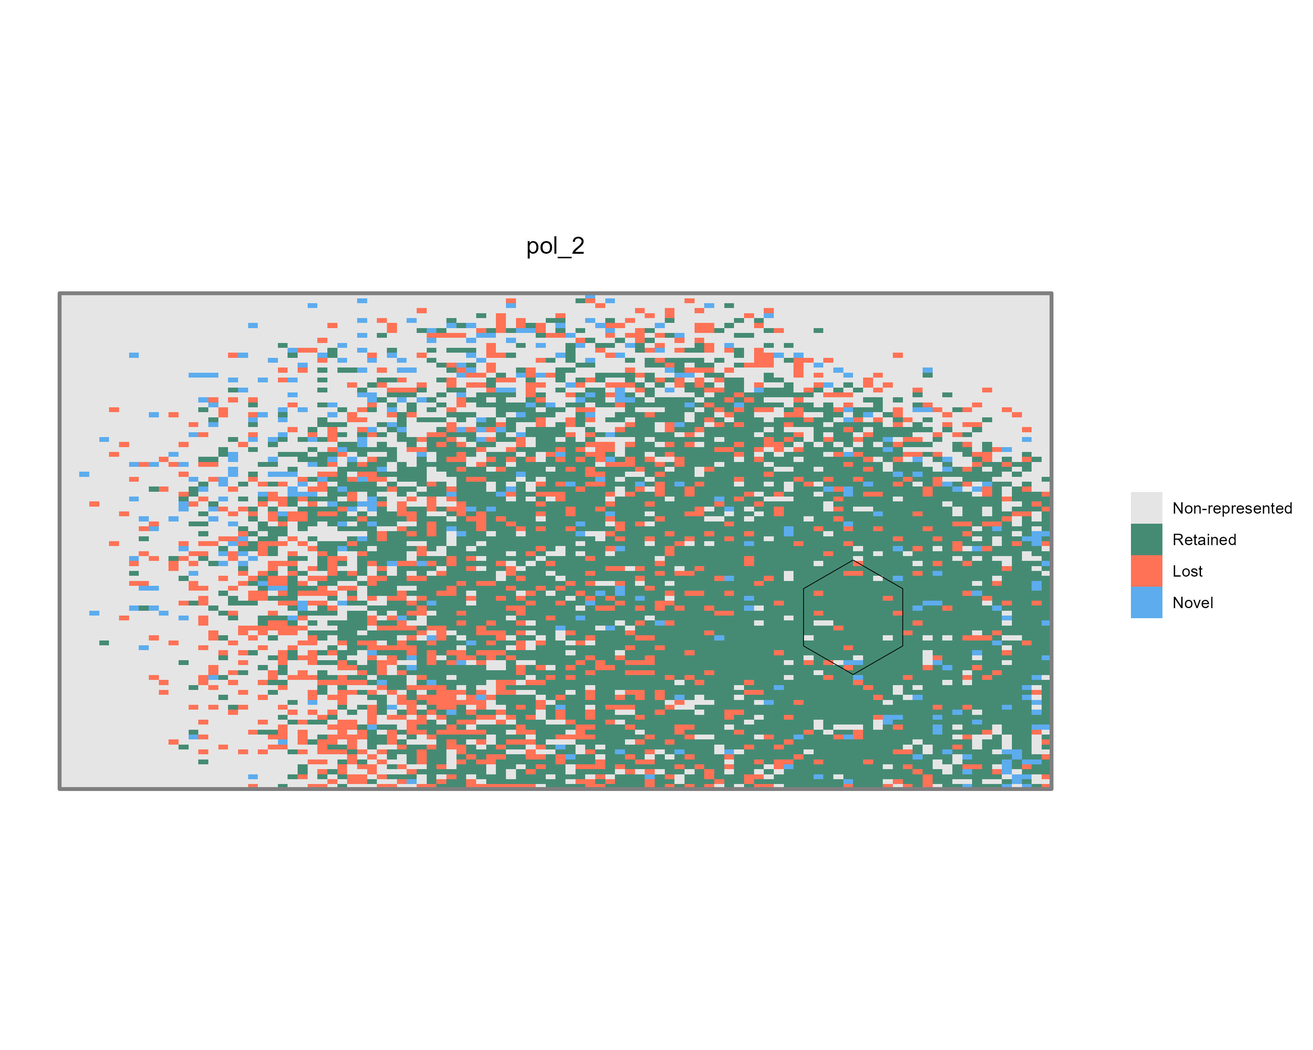
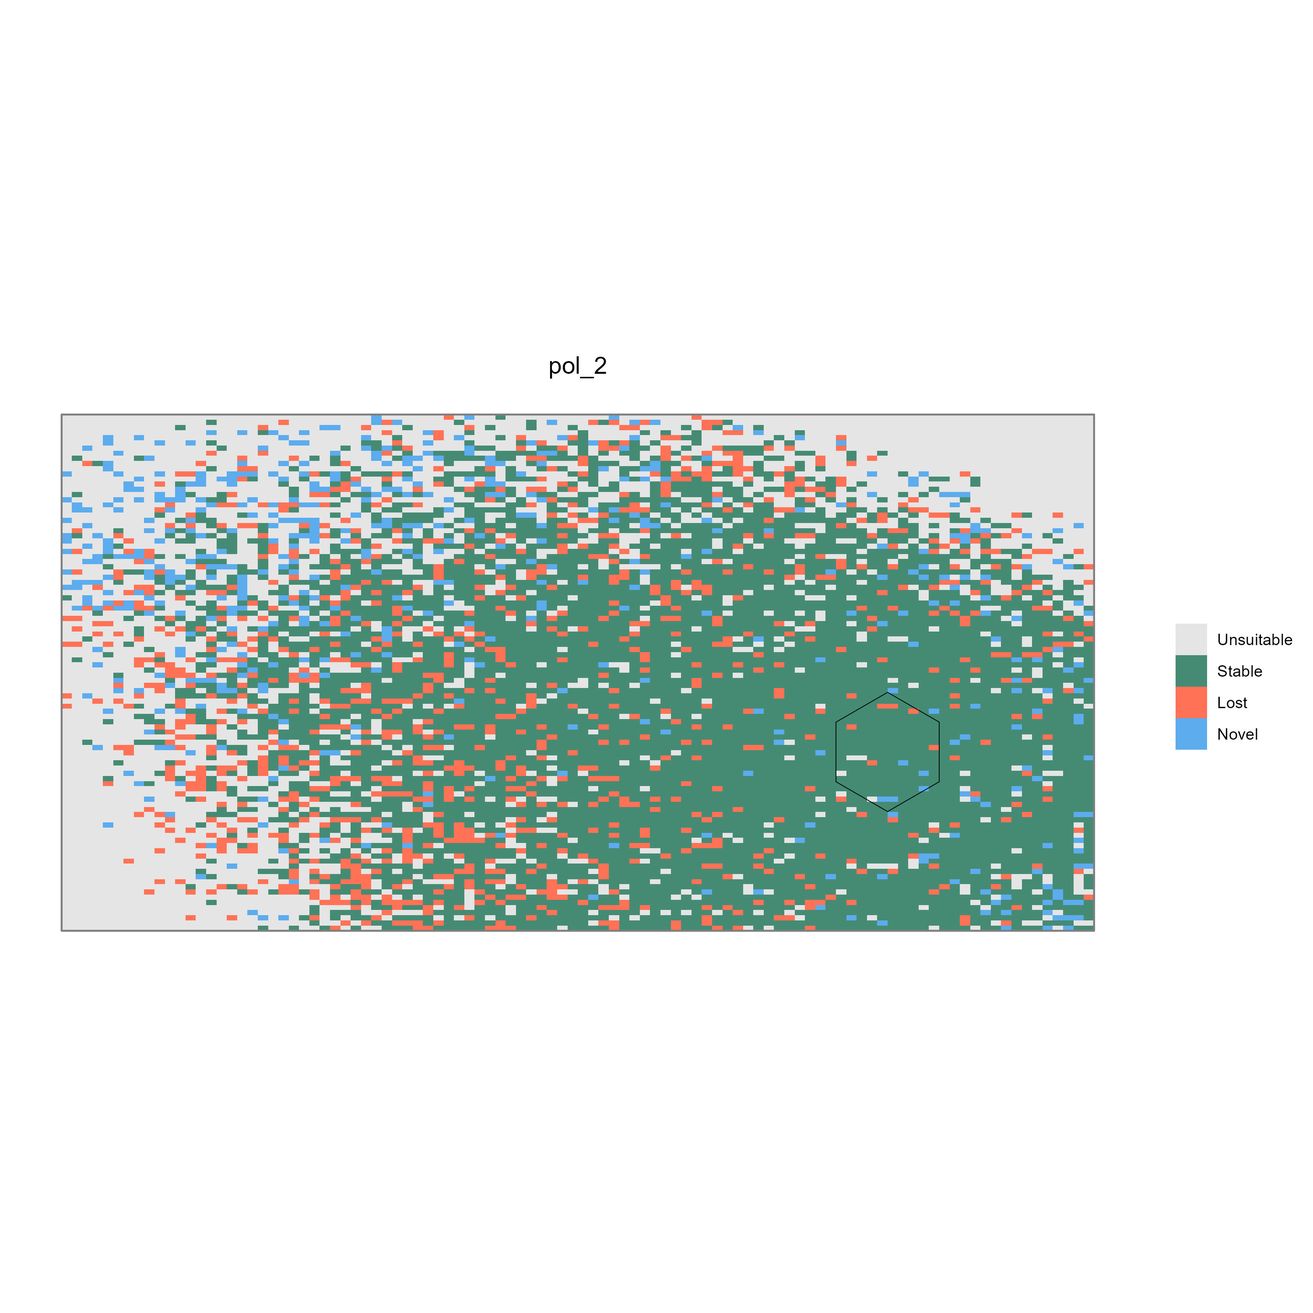
version 1.0

Changed region(s): [[0.031, 0.2188, 0.992, 0.7812]]

diff --git a/README.md b/README.md
@@ -9,18 +9,18 @@
 
 ## Overview
 
-The `ClimaRep` package offers tools to analyze the climate representativeness of defined areas, assessing current conditions and evaluating how they are projected to change under future climate change scenarios. 
-Using spatial data, including climate raster layers, the input area polygons, and a polygon of the study area, the package quantifies this representativeness and analyzes its transformation.
+The `ClimaRep` package offers tools to analyze the climate representativeness of defined areas, assessing current conditions and evaluating how they are projected to change under future scenarios. 
+Using spatial data, including climate raster layers, the input reference area polygons, and a polygon of the study area, the package quantifies this representativeness and analyzes its transformation.
 
 Key features include:
-* Filtering raster climate variables to reduce multicollinearity (`vif_filter`).
-* Estimating current climate representativeness (`mh_rep`).
-* Estimating changes in climate representativeness under future climate projections (`mh_rep_ch`).
-* Estimating climate representativeness overlay (`rep_overlay`).
+* Filtering raster climate variables to reduce multicollinearity (`ClimaRep::vif_filter()`).
+* Estimating current climate representativeness (`ClimaRep::mh_rep()`).
+* Estimating changes in climate representativeness under future climate projections (`ClimaRep::mh_rep_ch()`).
+* Estimating climate representativeness overlay (`ClimaRep::rep_overlay()`).
 
 ## Installation
 
-You can install the development version of ClimaRep from CRAN with:
+You can install the development version of `ClimaRep` from CRAN with:
 ```{r}
 install.packages("ClimaRep")
 ```
@@ -44,7 +44,7 @@ This package relies on other R packages, such as:
 
 These dependencies will be installed automatically when you install `ClimaRep`.
 
-## Getting Started
+## Getting started
 
 This section provides a brief example demonstrating the core workflow of the package.
 
@@ -62,13 +62,15 @@ Next, prepare the essential input data:
 
 1. **Climate variables** as an `SpatRaster` objects with consistent extent, resolution, and Coordinate Reference System (CRS).
 
-2. **Polygon** as an `sf` object containing one or more polygons, with a column identifying each distinct area (e.g., a 'name' or 'ID' column).
+2. **Polygon** as an `sf` object containing one or more polygons, with a column identifying each reference area (e.g., a 'name' or 'ID' column).
 
 3. **Study area** as a single `sf` object, representing the overall geographical region for analysis and thus the climate space being worked on.
 
 
 Here is a practical example using simulated data:
-The example simulates a pair of defined input areas and assesses their climate representativeness and transformation within a defined climate space. 
+
+The example simulates a pair of reference `polygon` and assesses their climate representativeness and change, based on Mahalanobis Distance.
+
 This involves creating a simulated climate space within which the analysis is performed.
 
 Generate simulated climate raster layers:
@@ -95,23 +97,21 @@ terra::plot(r_clim_present)
 ```
 <img src="man/figures/F_1.jpeg" alt="Climate layers" width="600">
 
-*Figure 1: Example of simulated climate raster layers (r_clim_present).*
+*Figure 1: Example of simulated climate raster layers (`r_clim_present`).*
 
 
-### 1. Filter Climate Variables
+### 1. Filter climate variables
 
-A crucial first step in processing the climate variables is often to address multicollinearity. Multicollinearity among climate variables can affect multivariate analyses.
+Multicollinearity among climate variables can affect multivariate analyses.
 
-To handle this, the `vif_filter` function can be used to iteratively remove variables with a Variance Inflation Factor (VIF) above a specified threshold (e.g., `th = 5`).
+To handle this, the `ClimaRep::vif_filter()` function can be used to iteratively remove variables with a Variance Inflation Factor (VIF) above a specified threshold (e.g., `th = 5`).
 
-The output of `vif_filter` returns a `list` object with a filtered `SpatRaster` object and a statistics summary. 
-
-The `SpatRaster` object, containing only the variables that were kept, also provides a comprehensive summary printed to the console. 
-
-The summary list including:
-- The lists of variables that were kept and those that were excluded.
-- The original Pearson's correlation matrix between all initial variables.
-- The final VIF values for the variables that were retained after the filtering process.
+The output returns a `list` object with:
+- A filtered `SpatRaster` object containing only the variables that were kept 
+- A comprehensive statistics summary `list` including:
+  - The name of variables that were kept and those that were excluded.
+  - The original Pearson's correlation matrix between all initial variables.
+  - The final VIF values for the variables that were retained.
 
 
 ```{r}
@@ -144,10 +144,10 @@ terra::plot(r_clim_present_filtered)
 ```
 <img src="man/figures/F_2.jpeg" alt="Filtered Climate layers" width="600">
 
-*Figure 2: Example of filtered climate dataset, showing remaining variables (r_clim_present_filtered) after vif_filter() function.*
+*Figure 2: Example of filtered climate dataset, showing remaining variables (`r_clim_present_filtered`) after `ClimaRep::vif_filter()`.*
 
-### 2. Estimate Climate Representativeness.
-Create example input area `polygon` (`sf`) and a `study_area` polygon (`sf`) to define the region and climate space for analysis:
+### 2. Estimate climate representativeness
+Create example reference `polygon` (`sf`) to estimate climate representativeness and a `study_area` polygon (`sf`) to set the climate space for analysis:
 ```{r}
 hex_grid <- sf::st_sf(
   sf::st_make_grid(
@@ -167,13 +167,14 @@ terra::plot(study_area_polygon, add = TRUE, col = "transparent", lwd = 3, border
 ```
 <img src="man/figures/F_3.jpeg" alt="polygon" width="600">
 
-*Figure 3: Example of input polygons (black outline) and study area (red outline) overlaid on a climate raster layer.*
+*Figure 3: Example of reference polygons (black outline) and study area (red outline) overlaid on `r_clim_present_filtered[[1]]`.*
 
-Use `mh_rep` to estimate **Climate Representativeness** for each input `polygon`. 
+Use `ClimaRep::mh_rep()` to estimate climate representativeness for each reference `polygon`. 
 
-The function calculates the Mahalanobis distance from the multivariate centroid of climate conditions within each `polygon` to all cells in the `study_area`. 
+The function calculates the Mahalanobis Distance from the multivariate centroid of climate conditions within each reference `polygon` to all cells in the `study_area`. 
 
-Cells within a certain percentile threshold (`th`) of distances found within the input `polygon` are considered representative.
+Cells within a certain percentile threshold (`th`) of distances found within the reference `polygon` are considered representative of the climate of the `polygon`.
+
 ```{r}
 mh_rep(
   polygon = polygons,
@@ -204,7 +205,7 @@ list.files(tempdir())
  [1] "Charts"             "Mh_Raw"             "Representativeness"
 ```
 
-1. The `Charts` subfolder contains the **binary representativeness** image files (`.jpeg`) for each input `polygon`.
+1. The `Charts` subfolder contains the binary representativeness image files (`.jpeg`) for each reference `polygon`.
 
 ```{r}
 list.files(file.path(tempdir(), "Charts"))
@@ -214,8 +215,9 @@ list.files(file.path(tempdir(), "Charts"))
 
 *Figure 4: Example of binary representativeness map for Pol_1 (pol_1_rep.jpeg).*
 
-2. The `Mh_raw` subfolder contains the **continuous Mahalanobis distance** rasters (`.tif`) for each input `polygon`. 
-Lower values indicate climates more similar to the polygon's centroid.
+2. The `Mh_raw` subfolder contains the continuous Mahalanobis Distance rasters (`.tif`) for each reference `polygon`. 
+
+Lower values indicate climates more similar to the reference polygon's centroid.
 
 ```{r}
 mh_rep_raw <- terra::rast(list.files(file.path(tempdir(), "Mh_Raw"),  pattern = "\\.tif$", full.names = TRUE))
@@ -224,11 +226,12 @@ terra::plot(polygons[1,], add = TRUE, color= "transparent", lwd = 3)
 ```
 <img src="man/figures/F_5.jpeg" alt="cont_rep" width="600">
 
-*Figure 5: Example of continuous Mahalanobis distance raster for Pol_1. Darker shades indicate cells with climate conditions more similar to Pol_1.*
+*Figure 5: Example of continuous Mahalanobis Distance raster for Pol_1. Darker shades indicate cells with climate conditions more similar to Pol_1.*
 
-3. The `Representativeness` subfolder contains the **binary representativeness** rasters (`.tif`) for each input `polygon`, based on the threshold (`th`) applied to the raw Mahalanobis distance.
+3. The `Representativeness` subfolder contains the binary representativeness rasters (`.tif`) for each reference `polygon`, based on the threshold (`th`) applied to the raw Mahalanobis Distance.
 
-Cells are coded `1` for `representative` and `0` for not representetive.
+Cells are coded `1` for `Representative` and `0` for `Unsuitable`.
+
 ```{r}
 mh_rep_result <- terra::rast(list.files(file.path(tempdir(), "Representativeness"),  pattern = "\\.tif$", full.names = TRUE))
 terra::plot(mh_rep_result[[1]])
@@ -240,7 +243,7 @@ terra::plot(polygons[1,], add = TRUE, color= "transparent", lwd = 3)
 *Figure 6: Example of binary representativeness raster for Pol_1, showing cells classified as representetive (value 1).*
 
 ### 3. Estimate change in climate representativeness.
-To estimate how **Representativeness Changes**, a future climate scenario is required.
+To estimate how representativeness changes, a future climate scenario is required.
 
 In this example, a simple virtual future climate conditions (`SpatRaster`) are created by adding a constant value to the `r_clim_present_filtered` data:
 
@@ -252,13 +255,13 @@ terra::plot(r_clim_future)
 ```
 <img src="man/figures/F_7.jpeg" alt="Future Climate layers" width="600">
 
-*Figure 7: Example of simulated future climate variables.*
+*Figure 7: Example of simulated future climate variables (`r_clim_future`).*
 
-Use `mh_rep_ch` to compare representativeness between the `present_climate_variables` and `future_climate_variables` within the defined `study_area`. 
+Use `ClimaRep::mh_rep_ch()` to compare representativeness of a reference `polygon`, between the `present_climate_variables` and `future_climate_variables`. 
 
-This function calculates representativeness for each input `polygon` in both scenarios and determines cells where conditions:
+This function calculates representativeness for each reference `polygon` in both scenarios and determines cells where conditions:
 
-- **Retained** - Climate conditions that exist in both the current and future scenarios.
+- **Stable** - Climate conditions that exist in both the current and future scenarios.
 - **Lost** - Climate conditions that exist now but are no longer present in the future.
 - **Novel** - Climate conditions that are new and only appear in the future scenario.
 
@@ -296,10 +299,10 @@ list.files(tempdir())
 
 ```
 
-The `Change` subfolder contains binary rasters (`.tif`) for each input `polygon`, indicating the category of change.
+The `Change` subfolder contains binary rasters (`.tif`) for each reference `polygon`, indicating the category of change.
 
-- **0** - Non representetive
-- **1** - Retained
+- **0** - Unsuitable 
+- **1** - Stable
 - **2** - Lost
 - **3** - Novel
 
@@ -310,9 +313,9 @@ terra::plot(polygons[2,], add = TRUE, color= "transparent", lwd = 3)
 ```
 <img src="man/figures/F_8.jpeg" alt="Change_pol_2" width="600">
 
-*Figure 8: Example of change in representativeness for Pol_2, showing areas Non representetive (0), Retained (1), Lost (2), Novel (3).*
+*Figure 8: Example of change in representativeness for Pol_2, showing areas Unsuitable (0), Stable (1), Lost (2), Novel (3).*
 
-The `Charts` subfolder is updated or regenerated and contains **summary map** files (`.jpeg`) visualizing the change analysis results for each input `polygon`.
+The `Charts` subfolder is updated or regenerated and contains summary map files (`.jpeg`) visualizing the change analysis results for each reference `polygon`.
 
 ```{r}
 list.files(file.path(tempdir(), "Charts"))
@@ -320,9 +323,9 @@ list.files(file.path(tempdir(), "Charts"))
 ```
 <img src="man/figures/F_9.jpeg" alt="map_change_pol_2" width="600">
 
-*Figure 9: Example of summary maps illustrating climate representativeness change for Pol_2 (pol_2_rep_change.jpeg).*
+*Figure 9: Example of summary maps illustrating climate representativeness change for Pol_2 (`pol_2_rep_change.jpeg`).*
 
-The `Mh_Raw_Pre` subfolder contains the **continuous Mahalanobis distance** rasters (`.tif`) for the **present** scenario, calculated within the `study_area` extent relative to the climate conditions within each input `polygon`.
+The `Mh_Raw_Pre` subfolder contains the continuous Mahalanobis Distance rasters (`.tif`) for the **present** scenario, calculated within the `study_area` extent relative to the climate conditions within each reference `polygon`.
 
 ```{r}
 Mh_raw_Pre_result <- terra::rast(list.files(file.path(tempdir(), "Mh_Raw_Pre"),  pattern = "\\.tif$", full.names = TRUE))
@@ -332,9 +335,9 @@ terra::plot(polygons[2,], add = TRUE, color= "transparent", lwd = 3)
 
 <img src="man/figures/F_10.jpeg" alt="raw_pre_pol2" width="600">
 
-*Figure 10: Example continuous present-day Mahalanobis distance raster (within study area) for Pol_2.*
+*Figure 10: Example continuous present Mahalanobis Distance raster (within study area) for Pol_2.*
 
-The `Mh_Raw_Fut` subfolder contains the **continuous raw Mahalanobis distance** rasters (`.tif`) for the **future** scenario, calculated within the `study_area` extent relative to the climate conditions within each input `polygon`.
+The `Mh_Raw_Fut` subfolder contains the continuous raw Mahalanobis Distance rasters (`.tif`) for the **future** scenario, calculated within the `study_area` extent relative to the climate conditions within each reference `polygon`.
 
 ```{r}
 Mh_raw_Fut_result <- terra::rast(list.files(file.path(tempdir(), "Mh_Raw_Fut"),  pattern = "\\.tif$", full.names = TRUE))
@@ -344,12 +347,12 @@ terra::plot(polygons[2,], add = TRUE, color= "transparent", lwd = 3)
 
 <img src="man/figures/F_11.jpeg" alt="raw_fut_pol2" width="600">
 
-*Figure 11: Example continuous future Mahalanobis distance raster for Pol_2.*
+*Figure 11: Example continuous future Mahalanobis Distance raster for Pol_2.*
 
-### 4. Estimate Environmental Representativeness Overlay (rep_overlay)
-After obtaining the representativeness (`mh_rep`),  or change (`mh_rep_ch`), rasters for multiple polygons, you can combine them to visualize where different change types (**representetive / Retained, Lost, Novel**) accumulate. 
+### 4. Estimate environmental representativeness overlay.
+After obtaining the representativeness (`ClimaRep::mh_rep()`),  or change (`ClimaRep::mh_rep_ch()`), rasters for multiple reference `polygons`, it is possible to combine them and to identify where the different types of changes (representative/stable, lost, novel) are accumulated. 
 
-The `rep_overlay` function counting, for each cell, how many of the input rasters had a specific category value at that location.
+The `ClimaRep::rep_overlay()` function counting, for each cell, how many of the input rasters had a specific category value at that location.
 
 ```{r}
 ClimaRep_overlay <- rep_overlay(folder_path = file.path(tempdir(), "Change"),
@@ -357,7 +360,7 @@ ClimaRep_overlay <- rep_overlay(folder_path = file.path(tempdir(), "Change"),
 
 Processing 2 classification rasters from C:\Users\AppData\Local\Temp\RtmpY1rKKD/Change
 Calculating counts for category: Lost (value = 2) 
-Calculating counts for category: Retained (value = 1) 
+Calculating counts for category: Stable (value = 1) 
 Calculating counts for category: Novel (value = 3) 
 All processes were completed
 Output files saved in:  C:\Users\AppData\Local\Temp\RtmpY1rKKD/ClimaRep_overlay
@@ -367,7 +370,7 @@ terra::plotRGB(ClimaRep_overlay, stretch = "lin")
 
 <img src="man/figures/F_12.jpeg" alt="ClimaRep_overlay_1" width="600">
 
-*Figure 12: Visualisation of accumulated Lost (R), Retained (G) and Novel (B) cells.*
+*Figure 12: Visualisation of accumulated Lost (R), Stable (G) and Novel (B) cells for both reference `polygon`.*
 
 
 ```{r}
@@ -376,56 +379,56 @@ terra::plot(ClimaRep_overlay)
 
 <img src="man/figures/F_13.jpeg" alt="ClimaRep_overlay_2" width="600">
 
-*Figure 13: Example of accumulate Lost (1), Retained (2) or Novel (3) cells.*
+*Figure 13: Example of accumulate Lost (1), Stable (2) or Novel (3) cells for both reference `polygon`.*
 
 
-## Functions Reference
+## Functions reference
 
-**vif_filter()**
+**ClimaRep::vif_filter()**
 
 This function iteratively filters layers from a `SpatRaster` object by removing the one with the highest Variance Inflation Factor (VIF) that exceeds a specified threshold (`th`).
 
-`vif_filter(x, th)`
+`ClimaRep::vif_filter(x, th)`
 
 > `x`: A `SpatRaster` object with climate layers.
 
 > `th`: The VIF `threshold`.
 
-**mh_rep()**
+**ClimaRep::mh_rep()**
 
-This function calculates Mahalanobis-based Climate Representativeness for input polygon within a defined area.
+This function calculates climate representativeness for each reference polygon within a defined area.
 
-Representativeness is assessed by comparing the multivariate climate conditions of each cell, of the reference climate space (`climate_variables`), with the climate conditions within each specific input `polygon`. The CRS of `polygon` will be used as the reference system.
+Representativeness is assessed by comparing the multivariate climate conditions of each cell, of the reference climate space (`climate_variables`), with the climate conditions within each specific reference `polygon`. The CRS of `polygon` will be used as the reference system.
 
-`mh_rep(polygon, col_name, climate_variables, th, dir_output, save_raw)`
+`ClimaRep::mh_rep(polygon, col_name, climate_variables, th, dir_output, save_raw)`
 
 > `polygon`: An `sf` object containing the input polygon(s) for which representativeness will be assessed.
 
-> `col_name`: The `name` of the column in `polygon` that contains unique identifiers for each input `polygon`.
+> `col_name`: The `name` of the column in `polygon` that contains unique identifiers for each reference `polygon`.
 
 > `climate_variables`: A `SpatRaster` object with the climate layers (pre-filtered using `vif_filter`).
 
 > `study_area`: An `sf` object defining the overall study region.
 
-> `th`: The `threshold` for determining representativeness (e.g., 0.9 for the 90th percentile of distances within the input `polygon`).
+> `th`: The `threshold` for determining representativeness (e.g., 0.9 for the 90th percentile of distances within the reference `polygon`).
 
 > `dir_output`: Path to the `directory` where output rasters and charts will be saved. The directory will be created if it doesn't exist.
 
-> `save_raw`: Logical. If `TRUE`, saves the continuous Mahalanobis distance raster (`Mh_raw`) for each input `polygon`.
+> `save_raw`: Logical. If `TRUE`, saves the continuous Mahalanobis Distance raster (`Mh_raw`) for each reference `polygon`.
 
-**mh_rep_ch()**
+**ClimaRep::mh_rep_ch()**
 
-This function calculates Mahalanobis-based Climate Representativeness (or forward climate analogs) for input polygon across two time periods (present and future) within a defined area.
+This function calculates climate representativeness for each reference polygon across two time periods (present and future) within a defined area.
 
-The function identifies areas of climate representativeness **Retained**, **Lost**, or **Novel**.
+The function identifies areas of climate representativeness Stable, Lost, or Novel.
 
-Representativeness is assessed by comparing the multivariate climate conditions of each cell, of the reference climate space (`present_climate_variables` and `future_climate_variables`), with the climate conditions within each specific input `polygon`. The CRS of `polygon` will be used as the reference system.
+Representativeness change is assessed by comparing the multivariate climate conditions of each cell, of the reference climate space (`present_climate_variables` and `future_climate_variables`), with the climate conditions within each specific reference `polygon`. The CRS of `polygon` will be used as the reference system.
 
-`mh_rep_ch(polygon, col_name, present_climate_variables, future_climate_variables, study_area, th, model, year, dir_output, save_raw)`
+`ClimaRep::mh_rep_ch(polygon, col_name, present_climate_variables, future_climate_variables, study_area, th, model, year, dir_output, save_raw)`
 
 > `polygon`: An `sf` object containing the input polygon/s for which representativeness change will be assessed.
 
-> `col_name`: The `name` of the column in `polygon` that contains unique identifiers for each input `polygon`.
+> `col_name`: The `name` of the column in `polygon` that contains unique identifiers for each reference `polygon`.
 
 > `present_climate_variables`: A `SpatRaster` object with the present climate layers (pre-filtered using `vif_filter`).
 
@@ -433,7 +436,7 @@ Representativeness is assessed by comparing the multivariate climate conditions 
 
 > `study_area`: An `sf` object defining the overall study region.
 
-> `th`: The percentile `threshold` for determining representativeness in both scenarios (e.g., 0.9 for the 90th percentile of distances within the input `polygon`).
+> `th`: The percentile `threshold` for determining representativeness in both scenarios (e.g., 0.9 for the 90th percentile of distances within the reference `polygon`).
 
 > `model`: `Character string` identifying the climate model (e.g., "MIROC6"). This is used in output filenames for clear identification.
 
@@ -441,17 +444,18 @@ Representativeness is assessed by comparing the multivariate climate conditions 
 
 > `dir_output`: Path to the `directory` where output rasters and charts will be saved. The directory will be created if it doesn't exist.
 
-> `save_raw`: Logical. If `TRUE`, saves the continuous Mahalanobis distance rasters (`Mh_raw`) for both present and future scenarios within the study area extent.
+> `save_raw`: Logical. If `TRUE`, saves the continuous Mahalanobis Distance rasters (`Mh_raw`) for both present and future scenarios within the study area extent.
 
-**rep_overlay()**
+**ClimaRep::rep_overlay()**
 
-Combines multiple single-layer rasters (`tif`), outputs from `mh_rep` or `mh_rep_ch` for different input polygons, into a multi-layered `SpatRaster`.
+Combines multiple single-layer rasters (`tif`), outputs from `ClimaRep::mh_rep()` or `ClimaRep::mh_rep_ch()` for different input polygons, into a multi-layered `SpatRaster`.
 
-This function handles inputs from both `mh_rep` (which primarily contains **representetive** areas) and `mh_rep_ch` (which includes **Retained**, **Lost**, and **Novel** areas). The output layers consistently represent counts of each input.
+This function handles inputs from both `ClimaRep::mh_rep()` (which contains representetive and unsuitable cells) and `ClimaRep::mh_rep_ch()` (which includes Stable, Lost, and Novel cells). 
+The output layers consistently represent the accumulation of each input.
 
-`rep_overlay(folder_path, dir_output)`
+`ClimaRep::rep_overlay(folder_path, dir_output)`
 
-> `folder_path`: Character string. Path to the directory containing the input single-layer GeoTIFF classification rasters (outputs from `mh_rep_ch()` or `mh_rep()`).
+> `folder_path`: `Character string`. Path to the directory containing the input single-layer GeoTIFF classification rasters (outputs from `ClimaRep::mh_rep_ch()` or `ClimaRep::mh_rep()`).
 > `dir_output`: Path to the `directory` where output rasters will be saved. The directory will be created if it doesn't exist.
 
 ## Citation
@@ -464,10 +468,10 @@ If the package itself is formally cited (e.g., on CRAN), please include the pack
 
 > Mingarro & Lobo (2018) Environmental representativeness and the role of emitter and recipient areas in the future trajectory of a protected area under climate change. *Animal Biodiversity and Conservation*, 41(2): 333–344. doi.org/10.32800/abc.2018.41.0333
 
-> Farber & Kadmon (2003) Assessment of alternative approaches for bioclimatic modeling with special emphasis on the Mahalanobis distance. *Ecological Modelling*, 160: 115–130. doi:10.1016/S0304-3800(02)00327-7 
+> Farber & Kadmon (2003) Assessment of alternative approaches for bioclimatic modeling with special emphasis on the Mahalanobis Distance. *Ecological Modelling*, 160: 115–130. doi:10.1016/S0304-3800(02)00327-7 
 
 
-## Getting Help
+## Getting help
 
 If you encounter issues or have questions, please contact.
 
